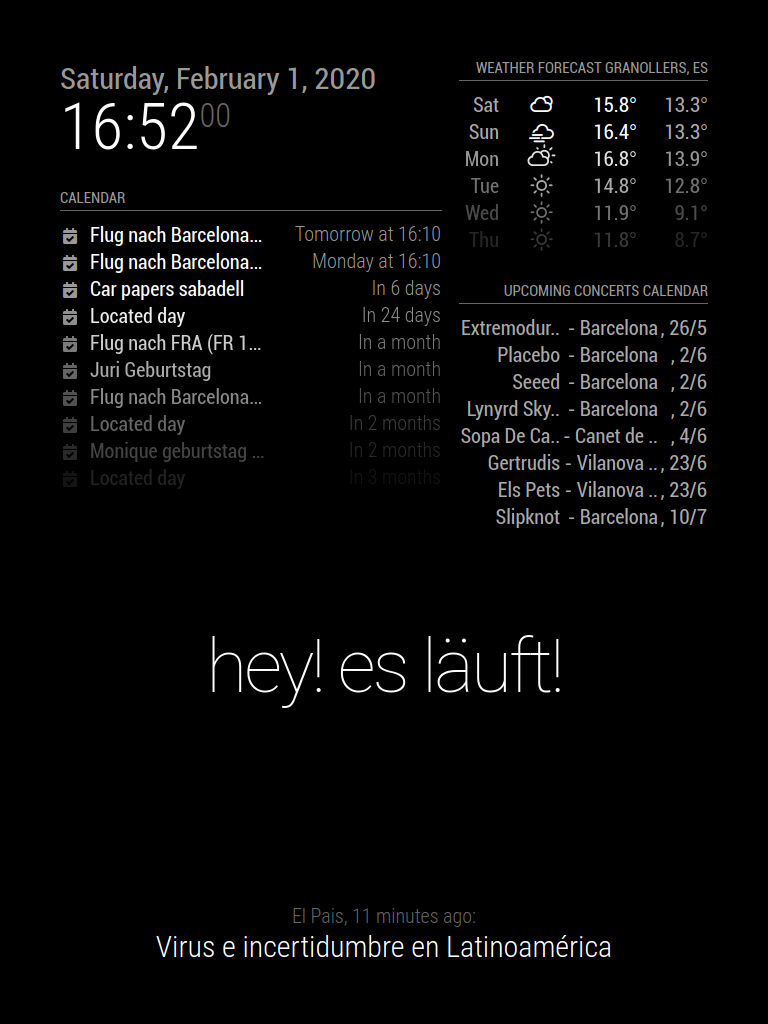
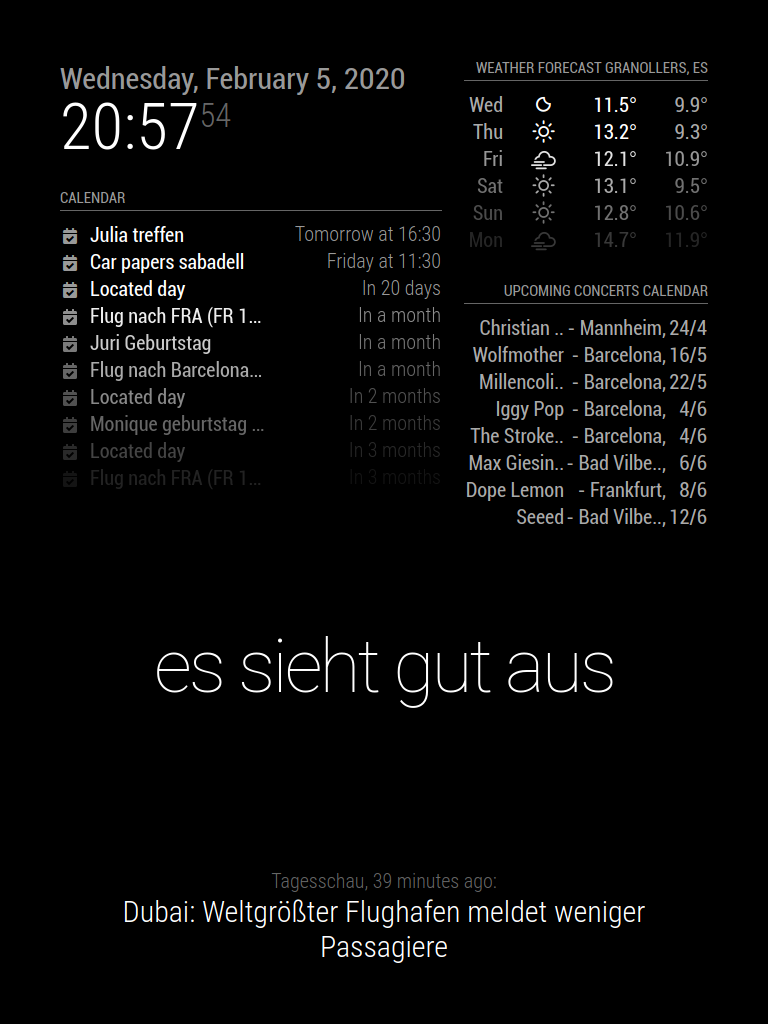
Change comma position

diff --git a/concertcalendar.js b/concertcalendar.js
@@ -78,12 +78,12 @@ Module.register("concertcalendar",{
 			row.appendChild(concertArtistCell);
 
 			var concertCityCell = document.createElement("td");
-			concertCityCell.innerHTML = " - " + concert.city.trim();
+			concertCityCell.innerHTML = " - " + concert.city.trim()+", ";
 			concertCityCell.className = "align-right trainto";
 			row.appendChild(concertCityCell);
 
 			var concertDate = document.createElement("td");
-			concertDate.innerHTML = ", " + concert.concertDate;
+			concertDate.innerHTML = concert.concertDate;
 			concertDate.className = "align-right trainto";
 			row.appendChild(concertDate);
 		}
